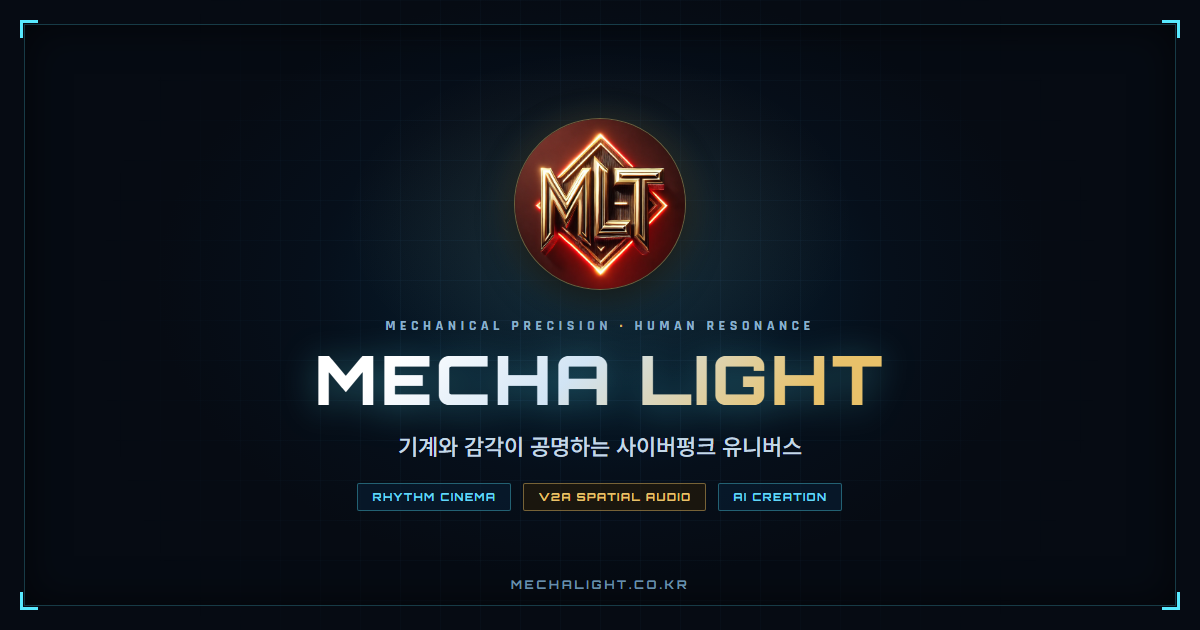
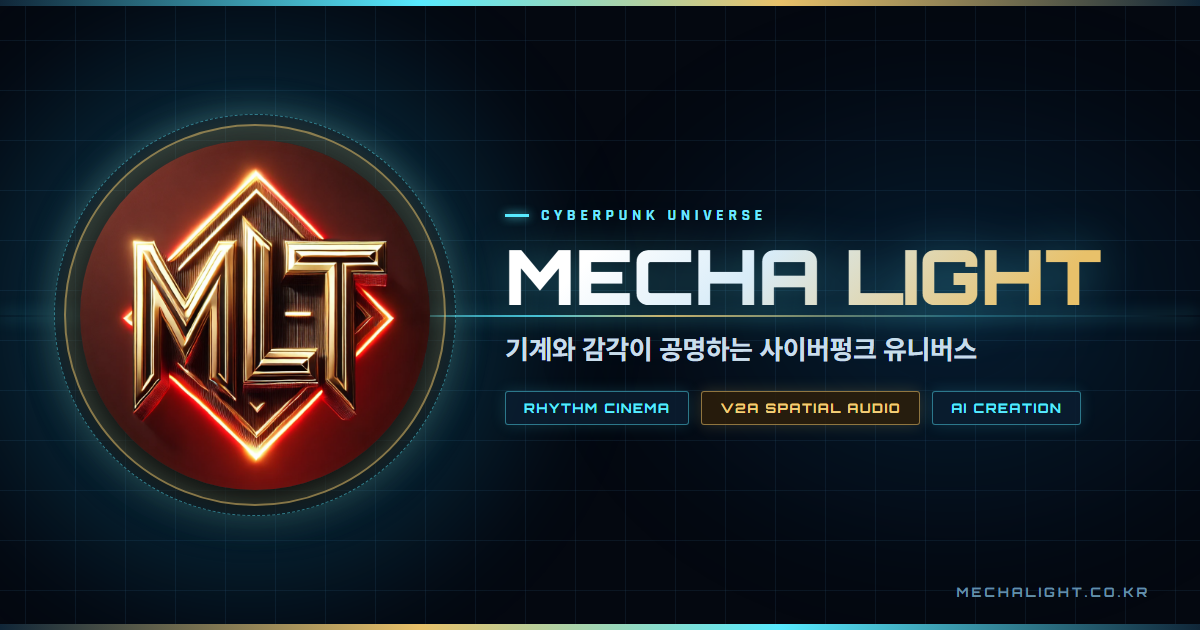
Update KakaoTalk OG card: full-bleed wide layout with 2x larger emblem and bold typography

diff --git a/index.html b/index.html
@@ -15,7 +15,7 @@
   <meta property="og:url" content="https://mechalight.co.kr/" />
   <meta property="og:title" content="MECHA LIGHT" />
   <meta property="og:description" content="기계와 감각이 공명하는 사이버펑크 유니버스. 음악 · 시네마틱 · AI 및 V2A R&D." />
-  <meta property="og:image" content="https://mechalight.co.kr/assets/og-cover.png?v=1" />
+  <meta property="og:image" content="https://mechalight.co.kr/assets/og-cover.png?v=2" />
   <meta property="og:image:width" content="1200" />
   <meta property="og:image:height" content="630" />
   <meta property="og:image:alt" content="MECHA LIGHT — Cyberpunk Creative Universe" />
@@ -27,7 +27,7 @@
   <meta name="twitter:url" content="https://mechalight.co.kr/" />
   <meta name="twitter:title" content="MECHA LIGHT" />
   <meta name="twitter:description" content="기계와 감각이 공명하는 사이버펑크 유니버스. 음악 · 시네마틱 · AI 및 V2A R&D." />
-  <meta name="twitter:image" content="https://mechalight.co.kr/assets/og-cover.png?v=1" />
+  <meta name="twitter:image" content="https://mechalight.co.kr/assets/og-cover.png?v=2" />
 
   <link rel="preconnect" href="https://fonts.googleapis.com">
   <link rel="preconnect" href="https://fonts.gstatic.com" crossorigin>
